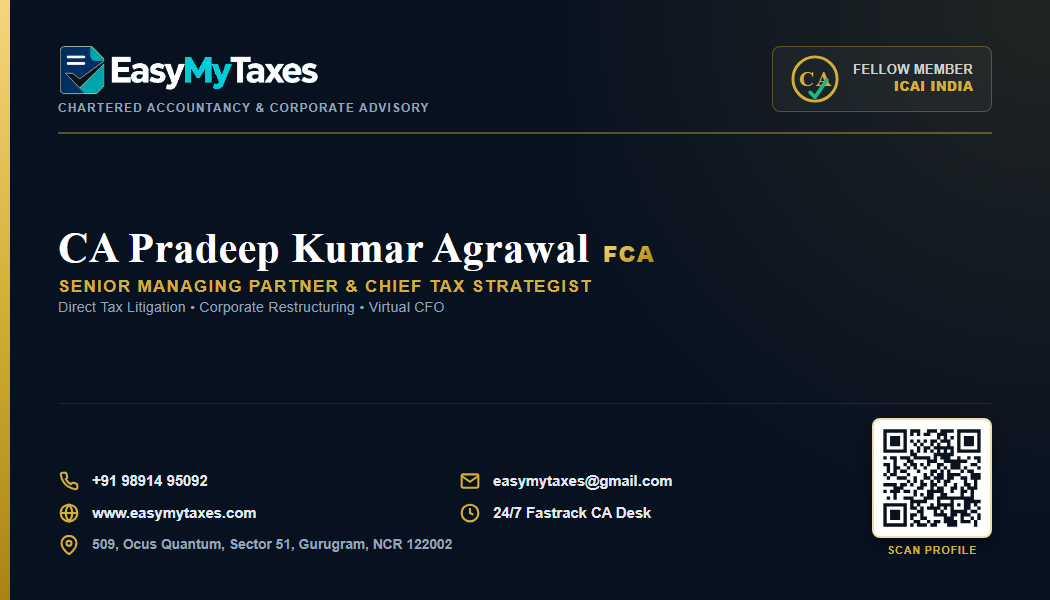
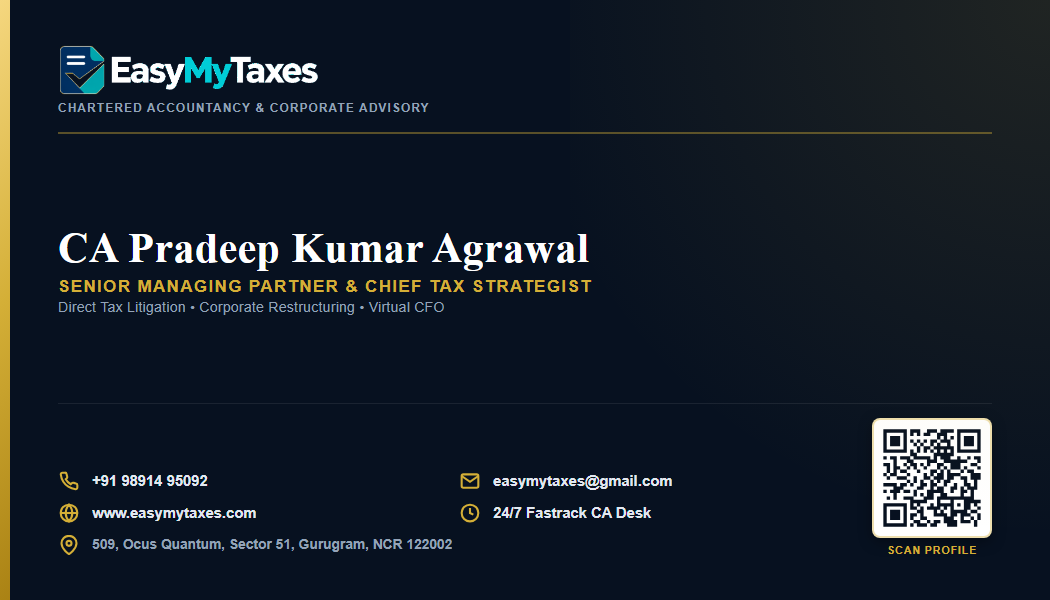
fix(visiting-card): remove FCA suffix and ICAI badge across all editions and re-render print PNGs

Changed region(s): [[0.7314, 0.09, 0.9448, 0.18], [0.579, 0.39, 0.64, 0.45]]

diff --git a/visiting-card/index.html b/visiting-card/index.html
@@ -3,7 +3,7 @@
 <head>
   <meta charset="UTF-8">
   <meta name="viewport" content="width=device-width, initial-scale=1.0">
-  <title>Visiting Card &mdash; CA Pradeep Kumar Agrawal (FCA) | Easy My Taxes</title>
+  <title>Visiting Card &mdash; CA Pradeep Kumar Agrawal | Easy My Taxes</title>
 
   <!-- Google Fonts for Print & Web -->
   <link rel="preconnect" href="https://fonts.googleapis.com">
@@ -840,7 +840,7 @@
     <div class="badge-pill">
       <span>★</span> Official ICAI Executive Visiting Card Edition (2026)
     </div>
-    <h1 class="studio-title">CA Pradeep Kumar Agrawal (FCA)</h1>
+    <h1 class="studio-title">CA Pradeep Kumar Agrawal</h1>
     <p class="studio-desc">
       Precision print-ready visiting card (3.5" × 2.0" / 88.9mm × 50.8mm) calibrated for high-resolution offset and digital commercial printing on 350 GSM card stock.
     </p>
@@ -947,30 +947,12 @@
             <img src="assets/logo-new-transparent.png" alt="EasyMyTaxes Logo" class="brand-logo-img logo-for-light">
             <div class="brand-tagline">Chartered Accountancy &amp; Corporate Advisory</div>
           </div>
-
-          <div class="icai-badge-wrap">
-            <div class="ca-symbol">
-              <!-- Official Clean Vector CA Logo -->
-              <svg viewBox="0 0 100 100" fill="none" xmlns="http://www.w3.org/2000/svg" style="width: 100%; height: 100%;">
-                <circle cx="50" cy="50" r="46" stroke="var(--c-gold)" stroke-width="6"/>
-                <!-- CA Letters in Gold / Navy -->
-                <text x="32" y="65" font-family="'Cinzel', serif" font-size="44" font-weight="900" fill="var(--c-gold)" text-anchor="middle">C</text>
-                <text x="68" y="65" font-family="'Cinzel', serif" font-size="44" font-weight="900" fill="var(--c-gold)" text-anchor="middle">A</text>
-                <!-- Green tick mark symbolizing accuracy & ICAI trust -->
-                <path d="M40 78 L50 88 L75 52" stroke="#10b981" stroke-width="8" stroke-linecap="round" stroke-linejoin="round"/>
-              </svg>
-            </div>
-            <div class="icai-text">
-              Fellow Member<br>
-              <strong>ICAI INDIA</strong>
-            </div>
-          </div>
         </div>
 
         <!-- Middle: CA Pradeep Kumar Agrawal Details -->
         <div class="card-person-block">
           <div class="person-name">
-            CA Pradeep Kumar Agrawal <span class="fca-suffix">FCA</span>
+            CA Pradeep Kumar Agrawal
           </div>
           <div class="person-title">Senior Managing Partner &amp; Chief Tax Strategist</div>
           <div class="person-sub">Direct Tax Litigation • Corporate Restructuring • Virtual CFO</div>

diff --git a/visiting-card/presentation_dark.html b/visiting-card/presentation_dark.html
@@ -2,7 +2,7 @@
 <html lang="en">
 <head>
   <meta charset="UTF-8">
-  <title>Visiting Card Suite Showcase — Light Edition</title>
+  <title>Visiting Card Suite Showcase — Royal Dark Edition</title>
   <link rel="preconnect" href="https://fonts.googleapis.com">
   <link rel="preconnect" href="https://fonts.gstatic.com" crossorigin>
   <link href="https://fonts.googleapis.com/css2?family=Cinzel:wght@600;700;800;900&family=Playfair+Display:ital,wght@0,600;0,700;0,800;1,600&family=Plus+Jakarta+Sans:wght@400;500;600;700;800&family=Space+Grotesk:wght@500;700&display=swap" rel="stylesheet">
@@ -63,15 +63,15 @@
       font-weight: 800;
       letter-spacing: 0.14em;
       text-transform: uppercase;
-      color: #38bdf8;
+      color: #f5d77f;
     }
     .card-wrapper {
       width: 1050px;
       height: 600px;
       border-radius: 8px;
-      box-shadow: 0 25px 60px -10px rgba(0, 0, 0, 0.65), 0 0 0 1px rgba(255, 255, 255, 0.15);
+      box-shadow: 0 25px 60px -10px rgba(0, 0, 0, 0.75), 0 0 0 1px rgba(212, 175, 55, 0.25);
       overflow: hidden;
-      background: #ffffff;
+      background: #071120;
     }
     .card-img {
       width: 100%;
@@ -91,26 +91,26 @@
 <body>
   <div class="header-block">
     <h1 class="main-title">CA PRADEEP KUMAR AGRAWAL</h1>
-    <div class="sub-title">Senior Managing Partner | Easy My Taxes | Executive Light Edition Suite (AY 2026-27)</div>
+    <div class="sub-title">Senior Managing Partner | Easy My Taxes | Official Visiting Card Suite (AY 2026-27)</div>
   </div>
 
   <div class="cards-row">
     <div class="card-col">
       <div class="card-label">FRONT SIDE &mdash; IDENTITY &amp; VERIFIED CREDENTIALS</div>
       <div class="card-wrapper">
-        <img src="visiting-card-front-light.png" alt="Front Side Light" class="card-img">
+        <img src="visiting-card-front.png" alt="Front Side Dark" class="card-img">
       </div>
     </div>
     <div class="card-col">
       <div class="card-label">BACK SIDE &mdash; CORPORATE &amp; STATUTORY PRACTICE AREAS</div>
       <div class="card-wrapper">
-        <img src="visiting-card-back-light.png" alt="Back Side Light" class="card-img">
+        <img src="visiting-card-back.png" alt="Back Side Dark" class="card-img">
       </div>
     </div>
   </div>
 
   <div class="footer-block">
-    Standard Trim: 3.50 in &times; 2.00 in (88.9 &times; 50.8 mm) | Recommended: 350-400 GSM Matte Velvet Card Stock | 100% ICAI Compliant
+    Standard Trim: 3.50 in &times; 2.00 in (88.9 &times; 50.8 mm) | Recommended: 350-400 GSM Matte Velvet Card Stock with Gold Foil | 100% ICAI Compliant
   </div>
 </body>
 </html>

diff --git a/visiting-card/card_front_light_render.html b/visiting-card/card_front_light_render.html
@@ -227,33 +227,18 @@
 </head>
 <body>
   <div class="card-front">
-    <!-- Top Bar: Brand & ICAI Crest -->
+    <!-- Top Bar: Brand -->
     <div class="card-top-bar">
       <div class="brand-block">
         <img src="assets/logo-new-transparent.png" alt="EasyMyTaxes Logo" class="brand-logo-img">
         <div class="brand-tagline">Chartered Accountancy &amp; Corporate Advisory</div>
-      </div>
-
-      <div class="icai-badge-wrap">
-        <div class="ca-symbol">
-          <svg viewBox="0 0 100 100" fill="none" xmlns="http://www.w3.org/2000/svg" style="width: 100%; height: 100%;">
-            <circle cx="50" cy="50" r="46" stroke="#003062" stroke-width="6"/>
-            <text x="32" y="65" font-family="'Cinzel', serif" font-size="44" font-weight="900" fill="#003062" text-anchor="middle">C</text>
-            <text x="68" y="65" font-family="'Cinzel', serif" font-size="44" font-weight="900" fill="#003062" text-anchor="middle">A</text>
-            <path d="M40 78 L50 88 L75 52" stroke="#08a6ac" stroke-width="8" stroke-linecap="round" stroke-linejoin="round"/>
-          </svg>
-        </div>
-        <div class="icai-text">
-          Fellow Member<br>
-          <strong>ICAI INDIA</strong>
-        </div>
       </div>
     </div>
 
     <!-- Middle: CA Pradeep Details -->
     <div class="card-person-block">
       <div class="person-name">
-        CA Pradeep Kumar Agrawal <span class="fca-suffix">FCA</span>
+        CA Pradeep Kumar Agrawal
       </div>
       <div class="person-title">Senior Managing Partner &amp; Chief Tax Strategist</div>
       <div class="person-sub">Direct Tax Litigation • Corporate Restructuring • Virtual CFO</div>

diff --git a/visiting-card/card_front_render.html b/visiting-card/card_front_render.html
@@ -220,33 +220,18 @@
 </head>
 <body>
   <div class="card-front">
-    <!-- Top Bar: Brand & ICAI Crest -->
+    <!-- Top Bar: Brand -->
     <div class="card-top-bar">
       <div class="brand-block">
         <img src="assets/logo-new-dark.png" alt="EasyMyTaxes Logo" class="brand-logo-img">
         <div class="brand-tagline">Chartered Accountancy &amp; Corporate Advisory</div>
-      </div>
-
-      <div class="icai-badge-wrap">
-        <div class="ca-symbol">
-          <svg viewBox="0 0 100 100" fill="none" xmlns="http://www.w3.org/2000/svg" style="width: 100%; height: 100%;">
-            <circle cx="50" cy="50" r="46" stroke="#d4af37" stroke-width="6"/>
-            <text x="32" y="65" font-family="'Cinzel', serif" font-size="44" font-weight="900" fill="#d4af37" text-anchor="middle">C</text>
-            <text x="68" y="65" font-family="'Cinzel', serif" font-size="44" font-weight="900" fill="#d4af37" text-anchor="middle">A</text>
-            <path d="M40 78 L50 88 L75 52" stroke="#10b981" stroke-width="8" stroke-linecap="round" stroke-linejoin="round"/>
-          </svg>
-        </div>
-        <div class="icai-text">
-          Fellow Member<br>
-          <strong>ICAI INDIA</strong>
-        </div>
       </div>
     </div>
 
     <!-- Middle: CA Pradeep Details -->
     <div class="card-person-block">
       <div class="person-name">
-        CA Pradeep Kumar Agrawal <span class="fca-suffix">FCA</span>
+        CA Pradeep Kumar Agrawal
       </div>
       <div class="person-title">Senior Managing Partner &amp; Chief Tax Strategist</div>
       <div class="person-sub">Direct Tax Litigation • Corporate Restructuring • Virtual CFO</div>
